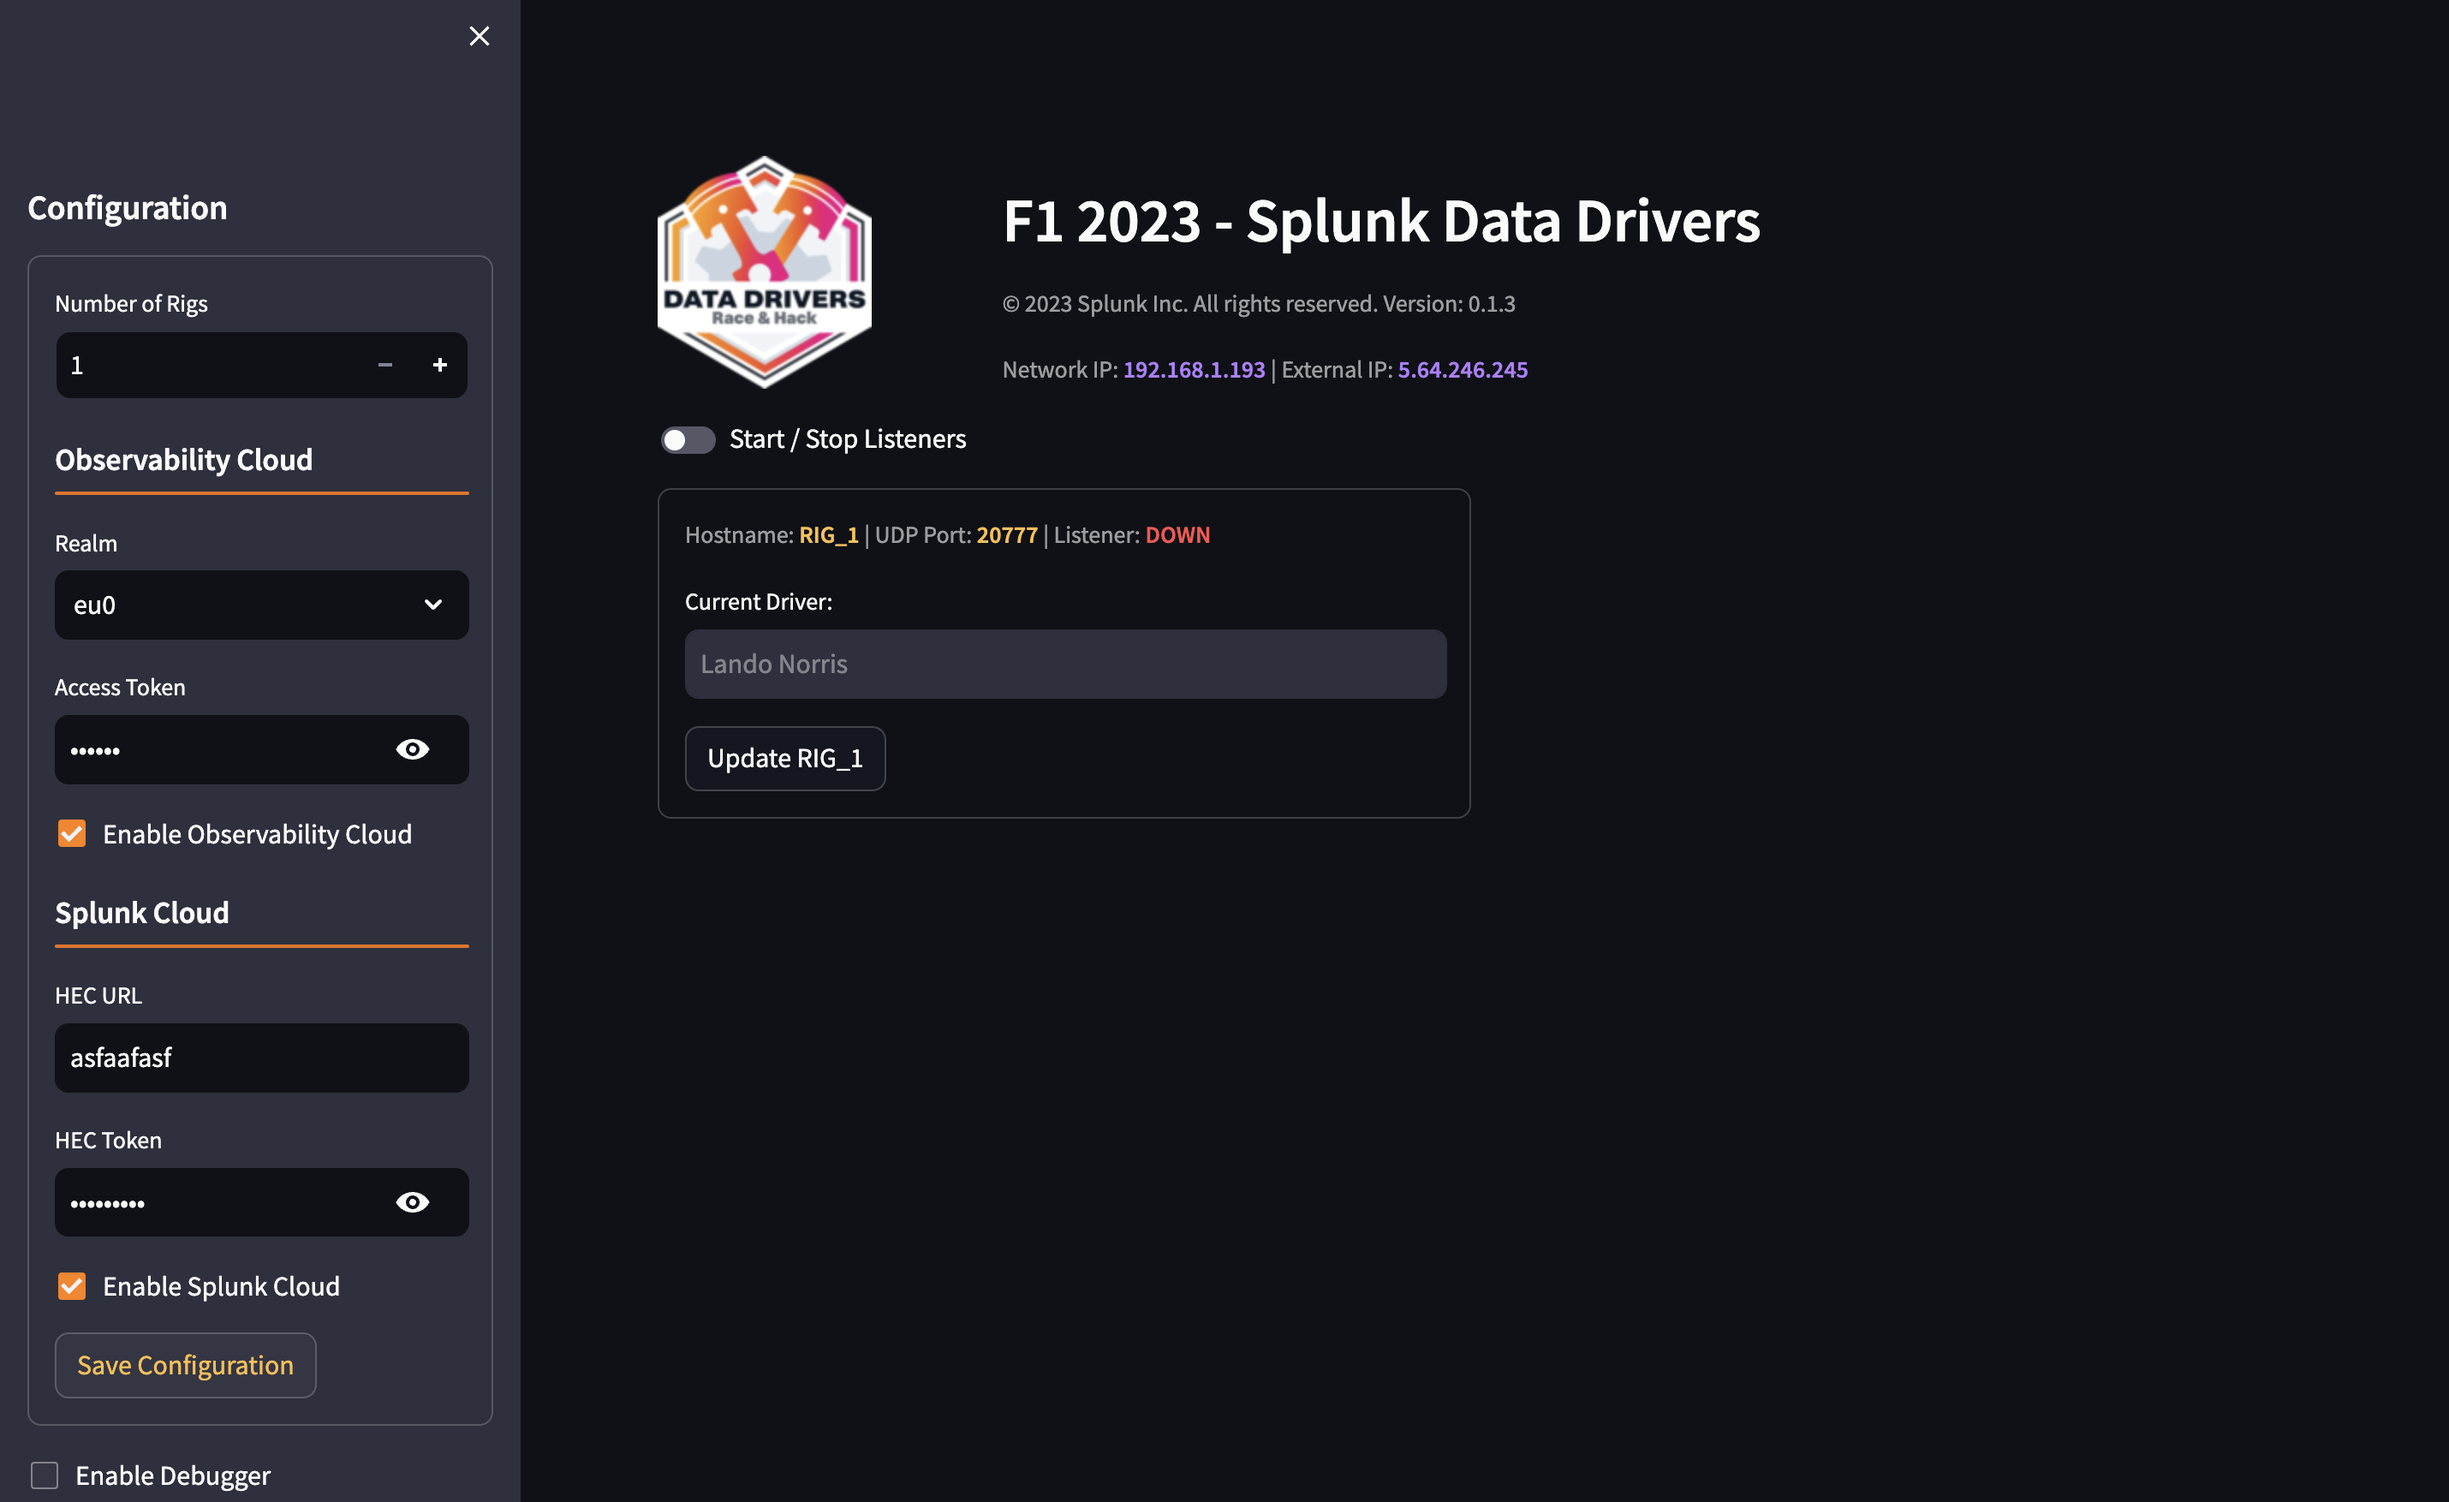
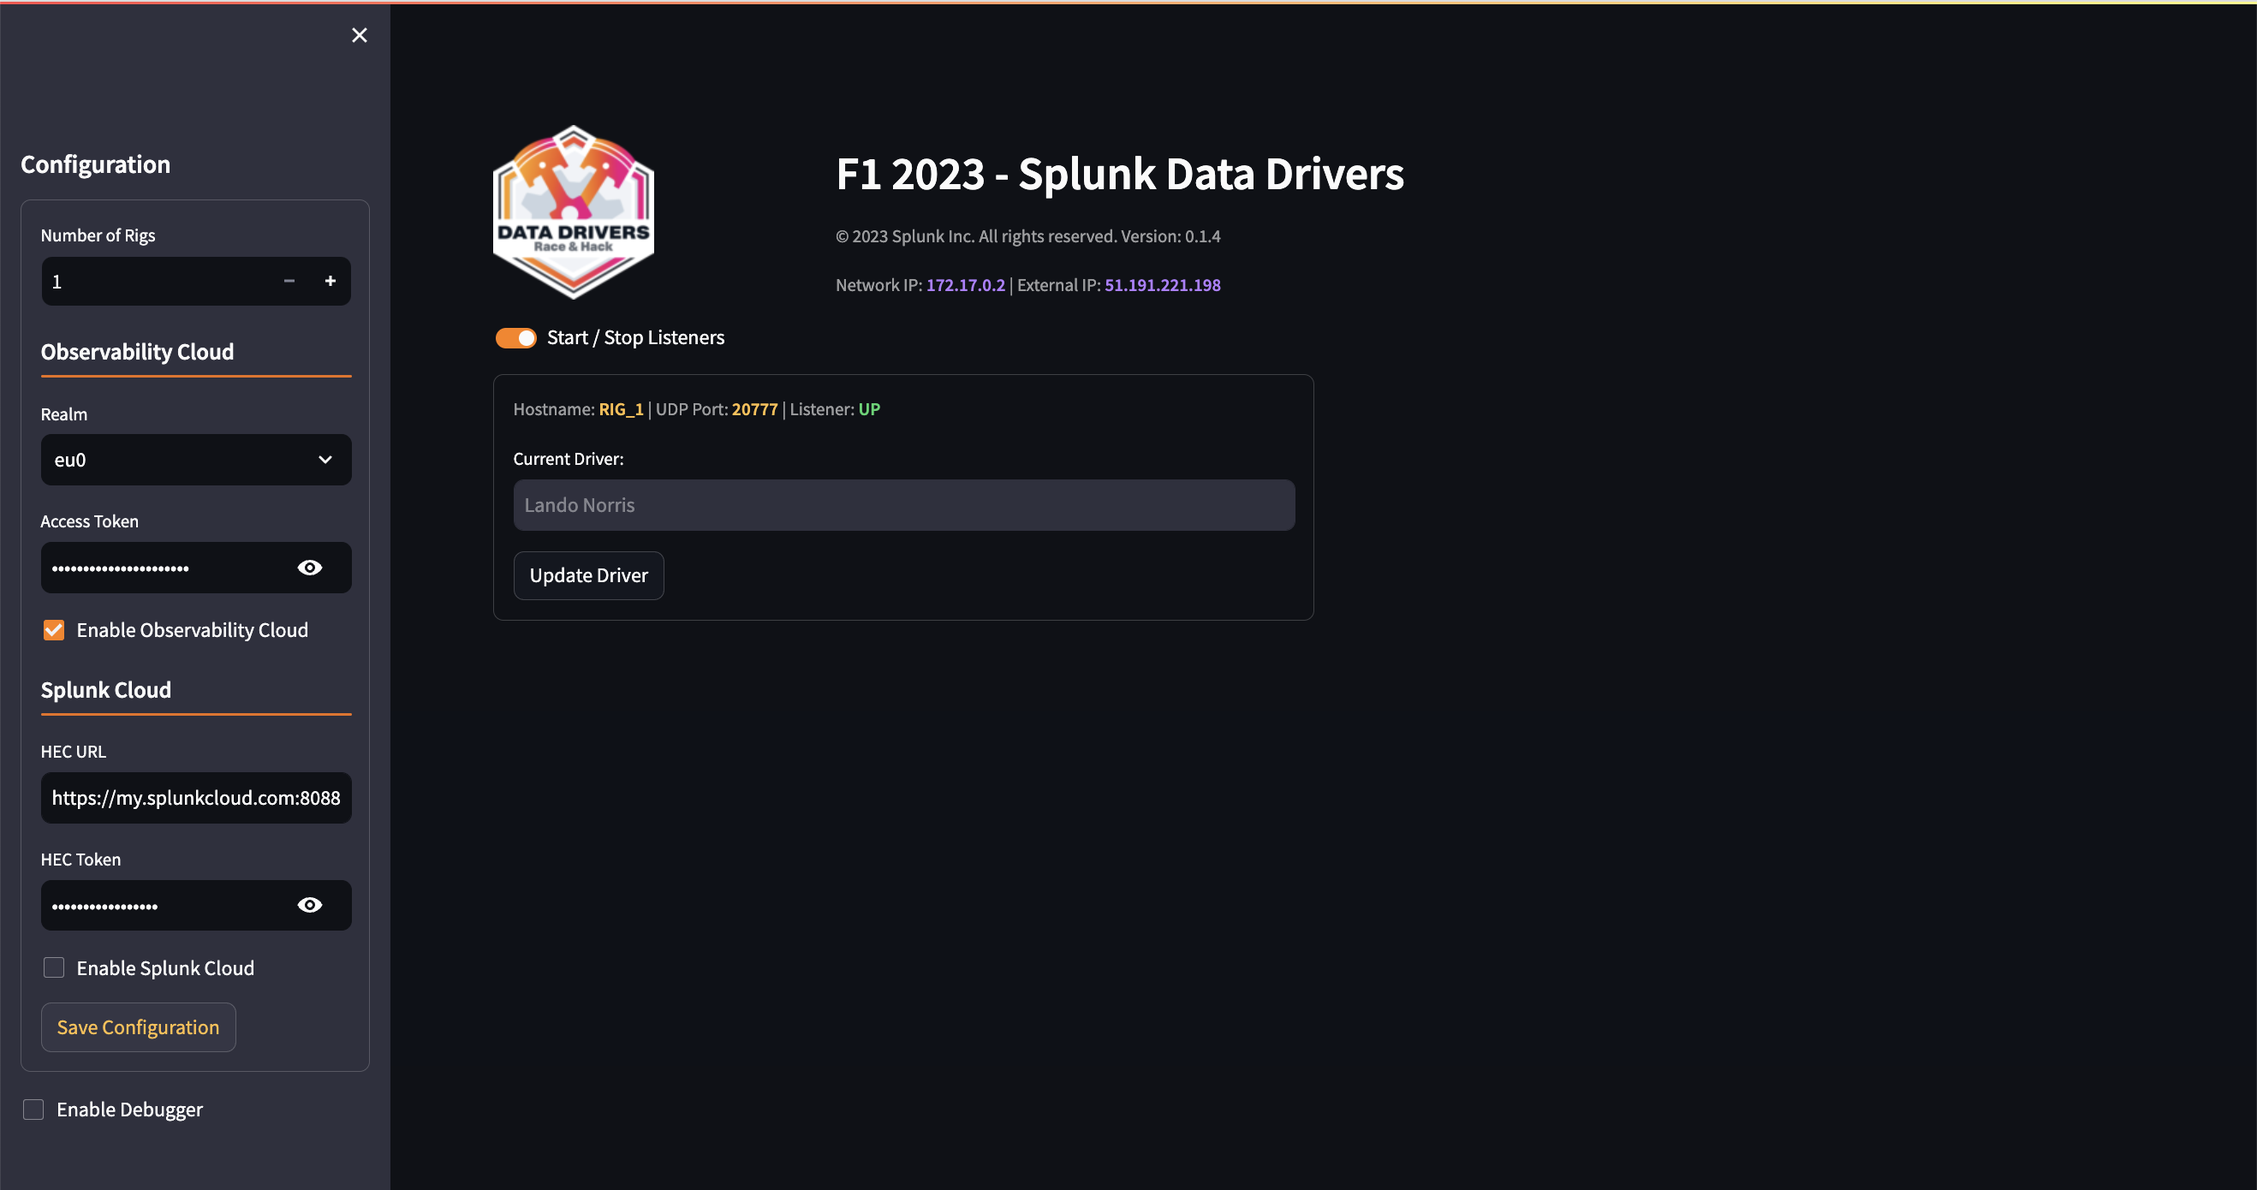
Improved configuration layout

Changed region(s): [[0.0, 0.0, 1.0, 1.0], [0.0, 0.1237, 0.0933, 0.1547]]

diff --git a/docs/f1_2023/configuration.md b/docs/f1_2023/configuration.md
@@ -6,23 +6,15 @@ Usually this will be 1, but in some cases at large events multiple rigs will be 
 
 ## Observability Cloud
 
-### Realm
+**Realm:** Realm name for the Observability Cloud realm you want to send data to e.g. `us1`, `eu0` etc.
 
-Realm name for the Observability Cloud realm you want to send data to e.g. `us1`, `eu0` etc.
-
-### Access Token
-
-Observability Cloud access token (must have `ingest` capability). This can be done by following the instructions [here](https://docs.splunk.com/Observability/admin/authentication-tokens/org-tokens.html#ingest-tokens).
+**Access Token:** Observability Cloud access token (must have `ingest` capability). This can be done by following the instructions [here](https://docs.splunk.com/Observability/admin/authentication-tokens/org-tokens.html#ingest-tokens).
 
 ## Splunk Cloud/Enterprise
 
-### HEC URL
+**HEC URL:** HEC URL for Splunk Cloud/Enterprise e.g. `https://simulator.prod.splunkcloud.com:8088`.
 
-HEC URL for Splunk Cloud/Enterprise e.g. `https://simulator.prod.splunkcloud.com:8088`.
-
-### HEC Token
-
-HEC Token for Splunk Cloud/Enterprise.
+**HEC Token:** HEC Token for Splunk Cloud/Enterprise.
 
 ## Enable sending metrics
 
